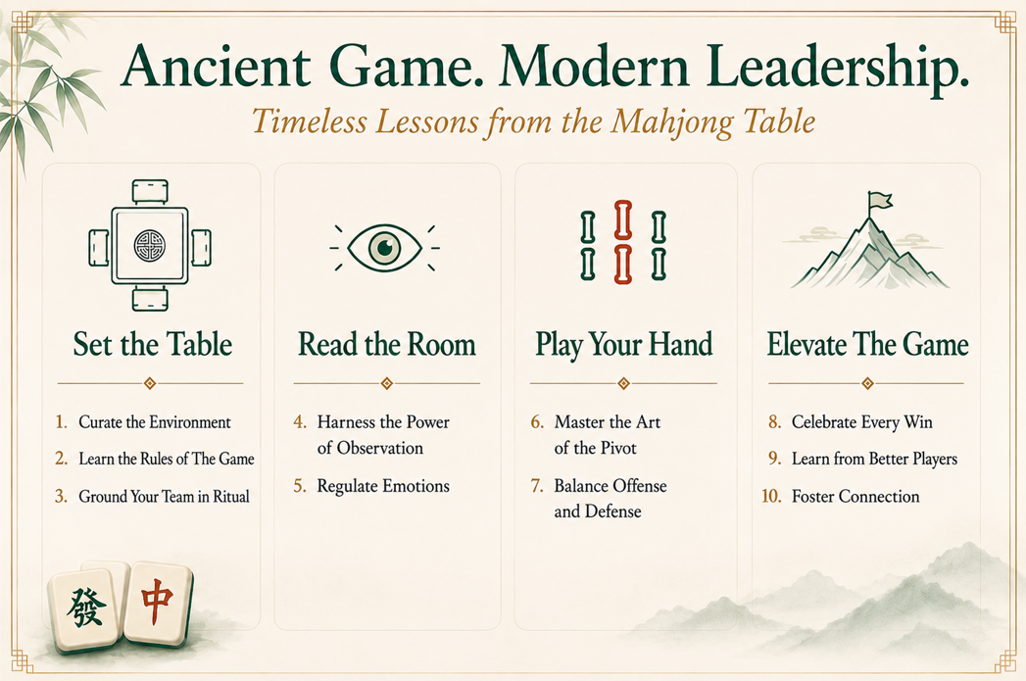
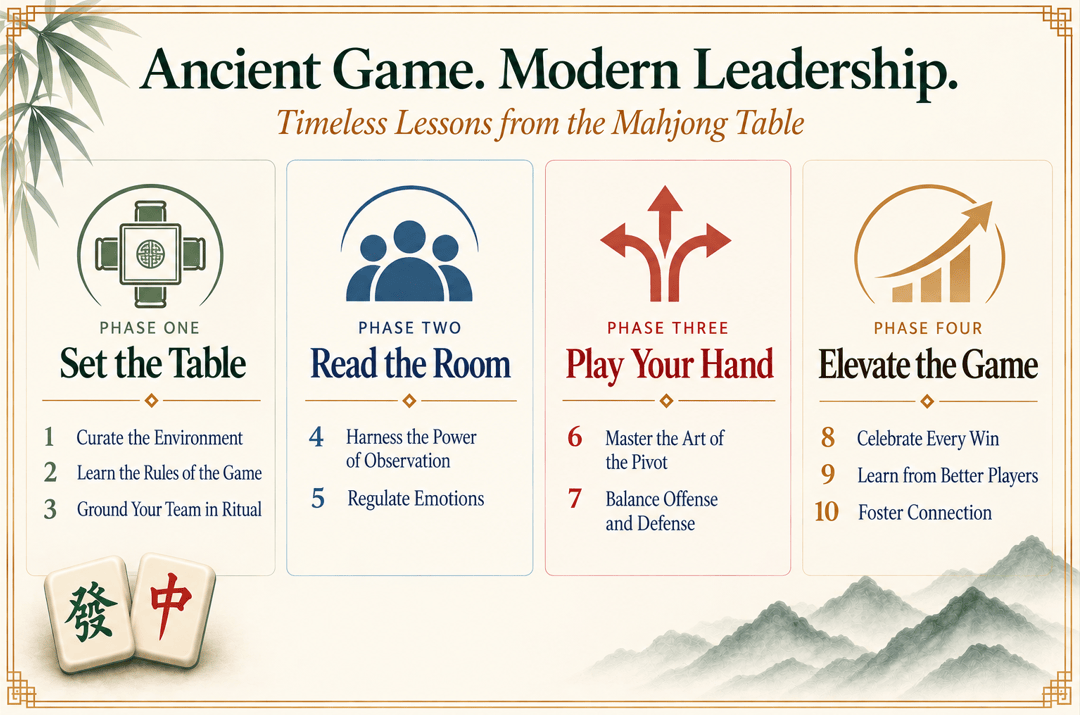
Maureen's ISBN and the final framework graphic
She sent both on 26 Sept. The ISBN makes the book a recognised title to
search engines and retailers rather than just a page about a title, so it
goes in the Book schema (and the paperback workExample) as well as on the
page under the release line.

The framework graphic is the designer's final: same ten parallels and four
phases, but phase-labelled, colour-coded and with two capitalisation fixes.
Re-encoded on the way in — 1.00 MB down to 394 KB.

Claude-Session: https://claude.ai/code/session_019QUH5BBDdTXvzWVFCncufZ

Changed region(s): [[0.0, 0.0, 1.0, 1.0], [0.2807, 0.2467, 0.7173, 0.7709], [0.3431, 0.2467, 0.4055, 0.2775]]

diff --git a/book.html b/book.html
@@ -15,7 +15,7 @@
 <meta property="og:url" content="https://maureenacahill.com/book.html">
 <meta property="og:image" content="https://maureenacahill.com/assets/book-cover.png">
 <meta name="twitter:card" content="summary_large_image">
-<script type="application/ld+json">{"@context": "https://schema.org", "@type": "Book", "name": "Ancient Game. Modern Leadership.", "alternateName": "Ancient Game. Modern Leadership. — Timeless Lessons from the Mahjong Table", "author": {"@type": "Person", "name": "Maureen A. Cahill", "url": "https://maureenacahill.com/about.html", "jobTitle": "Executive Coach and Leadership Advisor", "sameAs": ["https://www.linkedin.com/in/maureencahill"]}, "publisher": {"@type": "Organization", "name": "Dogwood Press"}, "datePublished": "2026-10-20", "inLanguage": "en", "url": "https://maureenacahill.com/book.html", "image": "https://maureenacahill.com/assets/book-cover.png", "genre": ["Leadership", "Business", "Management"], "about": ["Leadership", "Management", "Executive coaching", "Mahjong"], "description": "Ten practical leadership parallels drawn from Mahjong — preparation, observation, adaptability, emotional discipline, sound judgment, and human connection.", "workExample": [{"@type": "Book", "bookFormat": "https://schema.org/Paperback", "datePublished": "2026-10-20", "inLanguage": "en"}, {"@type": "Book", "bookFormat": "https://schema.org/EBook", "datePublished": "2026-10-20", "inLanguage": "en"}]}</script>
+<script type="application/ld+json">{"@context": "https://schema.org", "@type": "Book", "name": "Ancient Game. Modern Leadership.", "alternateName": "Ancient Game. Modern Leadership. — Timeless Lessons from the Mahjong Table", "author": {"@type": "Person", "name": "Maureen A. Cahill", "url": "https://maureenacahill.com/about.html", "jobTitle": "Executive Coach and Leadership Advisor", "sameAs": ["https://www.linkedin.com/in/maureencahill"]}, "publisher": {"@type": "Organization", "name": "Dogwood Press"}, "datePublished": "2026-10-20", "isbn": "979-8-9968321-0-1", "inLanguage": "en", "url": "https://maureenacahill.com/book.html", "image": "https://maureenacahill.com/assets/book-cover.png", "genre": ["Leadership", "Business", "Management"], "about": ["Leadership", "Management", "Executive coaching", "Mahjong"], "description": "Ten practical leadership parallels drawn from Mahjong — preparation, observation, adaptability, emotional discipline, sound judgment, and human connection.", "workExample": [{"@type": "Book", "bookFormat": "https://schema.org/Paperback", "datePublished": "2026-10-20", "inLanguage": "en", "isbn": "979-8-9968321-0-1"}, {"@type": "Book", "bookFormat": "https://schema.org/EBook", "datePublished": "2026-10-20", "inLanguage": "en"}]}</script>
 <script type="application/ld+json">{"@context": "https://schema.org", "@type": "FAQPage", "mainEntity": [{"@type": "Question", "name": "When does Ancient Game. Modern Leadership. come out, and where can I buy it?", "acceptedAnswer": {"@type": "Answer", "text": "Ancient Game. Modern Leadership. by Maureen A. Cahill releases on October 20, 2026. It will be available in paperback and ebook through Amazon and some independent booksellers. Join the launch list at maureenacahill.com to be notified the day it's available."}}, {"@type": "Question", "name": "Do I need to know how to play Mahjong to read this book?", "acceptedAnswer": {"@type": "Answer", "text": "No. Ancient Game. Modern Leadership. is a leadership book, and Mahjong is the lens rather than the subject. Readers who have never touched a tile follow every chapter without trouble — and will leave the book wanting to learn the game. Readers who play American Mah Jongg will recognize the moments — and probably see their own table differently afterward."}}, {"@type": "Question", "name": "Why Mahjong?", "acceptedAnswer": {"@type": "Answer", "text": "Few games reward observation, adaptability, emotional discipline, strategic thinking, and human connection as consistently as Mahjong does. Four players, incomplete information, a hand that has to change as the table changes — the parallels to leadership are direct and memorable. The game is also having a genuine cultural moment, with American Mah Jongg groups forming in cities across the country. Once you see the parallels, you'll never look at leadership or Mahjong the same way."}}, {"@type": "Question", "name": "What are the ten leadership parallels in the book?", "acceptedAnswer": {"@type": "Answer", "text": "Ancient Game. Modern Leadership. organizes ten leadership practices across four phases — Set the Table, Read the Room, Play Your Hand, and Elevate the Game: Curating the environment Learning the written and unwritten rules Building meaningful rituals Harnessing observation Regulating emotions Pivoting when circumstances change Balancing offense and defense Celebrating progress Learning from better players Fostering connection"}}, {"@type": "Question", "name": "Who is Maureen A. Cahill?", "acceptedAnswer": {"@type": "Answer", "text": "Maureen A. Cahill is an executive coach and leadership advisor with more than 30 years leading Human Resources, advising CEOs and CHROs, and working with organizations across nonprofit, higher education, privately held, private equity-backed, and Fortune 500 environments. She is the author of Ancient Game. Modern Leadership. and the founder of Dogwood Glen, a modern rustic event venue in Bentonville, Arkansas."}}, {"@type": "Question", "name": "Is this a good leadership book for new managers, or is it written for executives?", "acceptedAnswer": {"@type": "Answer", "text": "This book is written for every level of manager — including those who aspire to a leadership role. The ten practices in Ancient Game. Modern Leadership. apply whether you lead a team of two or an organization of thousands. New and emerging managers get a practical starting framework. Experienced executives get language for the instincts they already have and a structure for coaching others."}}, {"@type": "Question", "name": "Is this leadership theory or a practical guide?", "acceptedAnswer": {"@type": "Answer", "text": "Practical, deliberately. Each chapter of Ancient Game. Modern Leadership. combines real leadership stories, an insight from the Mahjong table, perspectives from experienced leaders, reflection questions, and actions you can use the same week you read them."}}, {"@type": "Question", "name": "What makes this different from other leadership books?", "acceptedAnswer": {"@type": "Answer", "text": "Most leadership books introduce a new framework. Ancient Game. Modern Leadership. returns to ten practices that have always mattered — creating the right environment, observing carefully, adapting thoughtfully, regulating emotions, building relationships, and helping other people succeed — and uses an ancient game to make them stick. The Mahjong parallel gives readers a way to remember the principles long after they close the book."}}, {"@type": "Question", "name": "Is the book based on real leadership experience?", "acceptedAnswer": {"@type": "Answer", "text": "Yes. The stories come from more than 30 years leading Human Resources, advising CEOs and CHROs, coaching executives, and working across nonprofit, higher education, privately held, private equity-backed, and Fortune 500 organizations. The book also features ten accomplished leaders across industries, functions, and career stages sharing candid accounts of what leadership actually required of them — the wins, the setbacks, and what they'd do differently."}}, {"@type": "Question", "name": "Does Ancient Game. Modern Leadership. include discussion questions for book clubs and leadership teams?", "acceptedAnswer": {"@type": "Answer", "text": "Yes. Every chapter includes discussion questions and practical exercises, which makes the book well suited to leadership teams, executive development programs, MBA courses, and book clubs. Buyers also get a free resource library with all ten frameworks, worksheets, and a bonus chapter."}}, {"@type": "Question", "name": "Can organizations use the book for leadership development and training?", "acceptedAnswer": {"@type": "Answer", "text": "Absolutely. Organizations use Ancient Game. Modern Leadership. as the foundation for leadership workshops, team discussions, coaching engagements, onboarding programs, and manager development. The chapter structure — model, reflection questions, applied actions — maps directly onto a session agenda or a cohort program."}}, {"@type": "Question", "name": "Are bulk orders and speaking engagements available?", "acceptedAnswer": {"@type": "Answer", "text": "Yes. Bulk purchases are available for leadership development programs, conferences, executive retreats, and employee gifting. Maureen A. Cahill is also available for keynotes, workshops, and customized leadership sessions. Inquiries go through maureenacahill.com."}}, {"@type": "Question", "name": "What do you hope readers take away?", "acceptedAnswer": {"@type": "Answer", "text": "That great leadership comes from paying closer attention to the timeless practices that help people thrive. When leaders create the right environment, observe carefully, adapt thoughtfully, and build meaningful connections, better results follow."}}]}</script>
 <link rel="preconnect" href="https://fonts.googleapis.com">
 <link rel="preconnect" href="https://fonts.gstatic.com" crossorigin>
@@ -63,7 +63,8 @@
   <div class="cta-band reveal d2">
     <a href="launch.html" class="btn btn-red">Be First to Know — Join the Launch List</a>
     <a href="launch.html" class="btn btn-gold" data-free-chapter>Get the Free Chapter</a>
-    <p class="cta-note">Releases October 20, 2026. Paperback and ebook.</p>
+    <p class="cta-note">Releases October 20, 2026. Paperback and ebook.<br>
+      <span class="isbn">ISBN 979-8-9968321-0-1</span></p>
   </div>
 
   <a class="jump reveal d2" href="#reader-resources">Already a reader? Jump to your resources ↓</a>

diff --git a/assets/site.css b/assets/site.css
@@ -357,6 +357,8 @@ footer .brand{display:block;margin-bottom:10px;font-size:1.35rem;color:var(--ivo
 .cta-band{display:flex;flex-wrap:wrap;gap:14px;justify-content:center;align-items:center;margin-top:26px}
 .cta-band .btn{margin:0}
 .cta-note{width:100%;text-align:center;color:var(--muted);font-size:.82rem;margin-top:4px}
+/* Booksellers and librarians look for the ISBN; readers shouldn't have to. */
+.cta-note .isbn{display:inline-block;margin-top:5px;font-size:.72rem;letter-spacing:.08em;opacity:.72}
 .jump{display:inline-block;margin-top:16px;font-size:.78rem;letter-spacing:.14em;text-transform:uppercase;
   color:var(--muted);border-bottom:1px solid rgba(200,162,95,.35);padding-bottom:2px}
 .jump:hover{color:var(--gold);border-color:var(--gold)}
